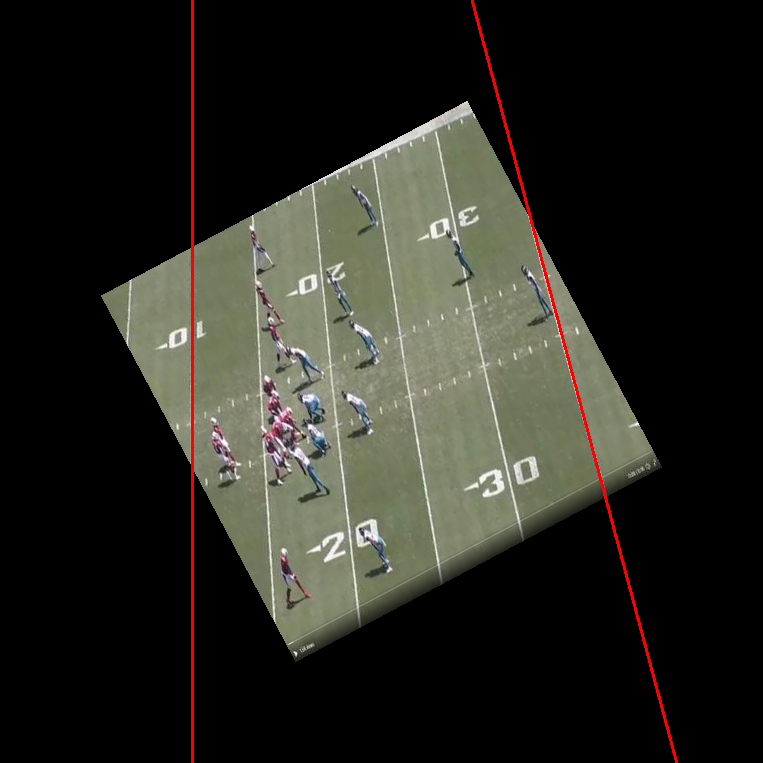
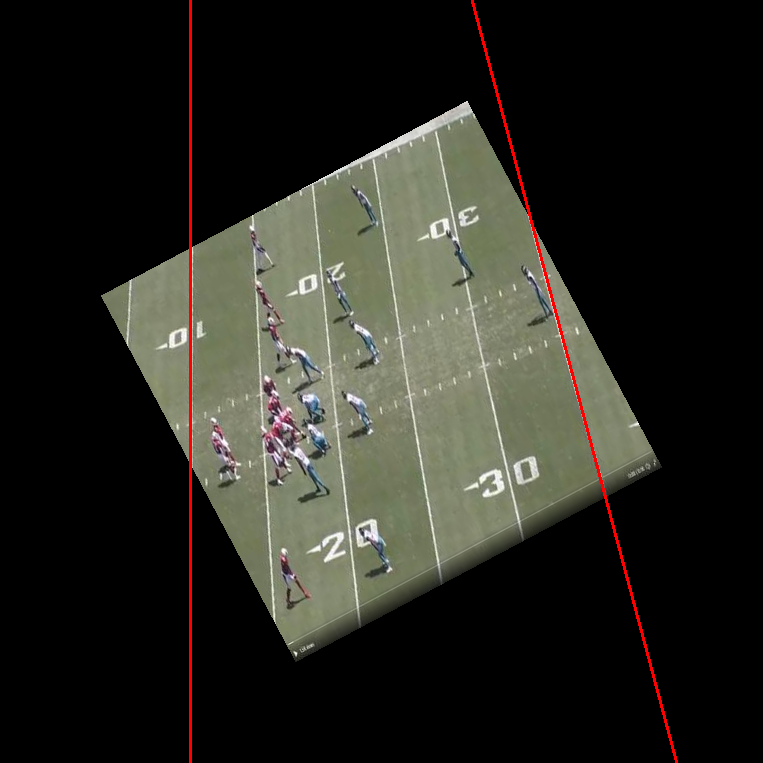
fix the line detection

Changed region(s): [[0.2412, 0.0, 0.2713, 1.0]]

diff --git a/perspective_transformation/rotate_line.py b/perspective_transformation/rotate_line.py
@@ -124,7 +124,7 @@ def get_image_with_max_lines(image1):
     canimg = cv2.Canny(gray, 50, 200)
     lines = cv2.HoughLines(canimg, 1, np.pi / 180.0, 140, np.array([]))
 
-    print(lines)
+    #print(lines)
 
     # print(lines)
     # lines= cv2.HoughLines(edges, 1, np.pi/180, 80, np.array([]))
@@ -156,10 +156,10 @@ def get_image_with_max_lines(image1):
     for line in lines:
         rho, theta = line[0]
         degree_theta = get_angle_degree(theta)
-        # print(rho + " : " + get_angle_degree(theta))
+        #print("degree theta(theta) ", degree_theta, theta, "rho: ", rho)
 
         # Only include lines that are more vertical than horizontal
-        if (135 <= degree_theta <= 180) or (0 <= degree_theta <= 45):
+        if (155 <= degree_theta <= 180) or (0 <= degree_theta <= 35):
             # degree_lines.append((rho, theta))
 
             if min_rho is None:
@@ -169,13 +169,14 @@ def get_image_with_max_lines(image1):
                 min_rho = rho
                 right_most_line = (min_rho, theta)
 
-            if max_rho is None:
+            if max_rho is None and rho > 0:
                 max_rho = rho
                 left_most_line = (max_rho, theta)
-            elif rho > max_rho:
+            elif rho > 0 and rho < max_rho :
                 max_rho = rho
                 left_most_line = (max_rho, theta)
 
+    print("Outputing: ", left_most_line, right_most_line)
     degree_lines.append(left_most_line)
     # degree_lines.append((left_most_line[0] + 20, left_most_line[1] + math.pi/2))
     degree_lines.append(right_most_line)
@@ -215,7 +216,8 @@ most_vertical_angle = get_most_vertical_line(lines)
 # print("angle to rotate", angle_to_rotate)
 # print(rho)
 # Rotate image by specified angle
-img_rotated = ndimage.rotate(image2, 180 * angle_to_rotate / math.pi)
+rotate_angle_degree = 180 * angle_to_rotate / math.pi
+img_rotated = ndimage.rotate(image2, rotate_angle_degree)
 
 img_rotated = cv2.copyMakeBorder(img_rotated, 100, 100, 100, 100,
                                  cv2.BORDER_CONSTANT)
@@ -228,9 +230,18 @@ top_most_point, bottom_most_point = get_vertical_extremes(w, h, final_w,
                                                           final_h,
                                                           angle_to_rotate)
 
-# perpendicular_theta = angle_to_rotate + most_vertical_angle + math.pi / 2
+print("most vertical angle, angle to rotate: ",most_vertical_angle*180/math.pi,  rotate_angle_degree)
 
-perpendicular_theta = most_vertical_angle - angle_to_rotate + math.pi / 2
+residual_angle = most_vertical_angle - angle_to_rotate 
+
+print("residual angle: ", residual_angle*180/math.pi)
+
+
+# works for left oriented angles 
+if (most_vertical_angle*180 / math.pi > 45):
+    perpendicular_theta = residual_angle + math.pi
+else:
+    perpendicular_theta = residual_angle + math.pi/2
 
 rho_t = get_rho(top_most_point, perpendicular_theta)
 rho_b = get_rho(bottom_most_point, perpendicular_theta)
